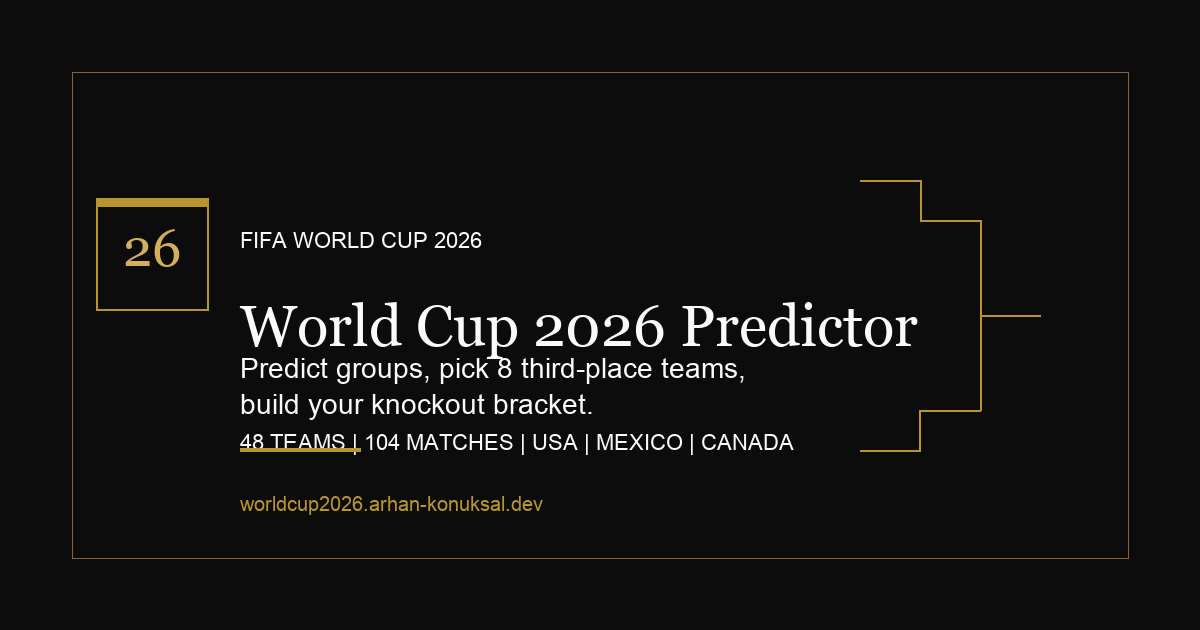
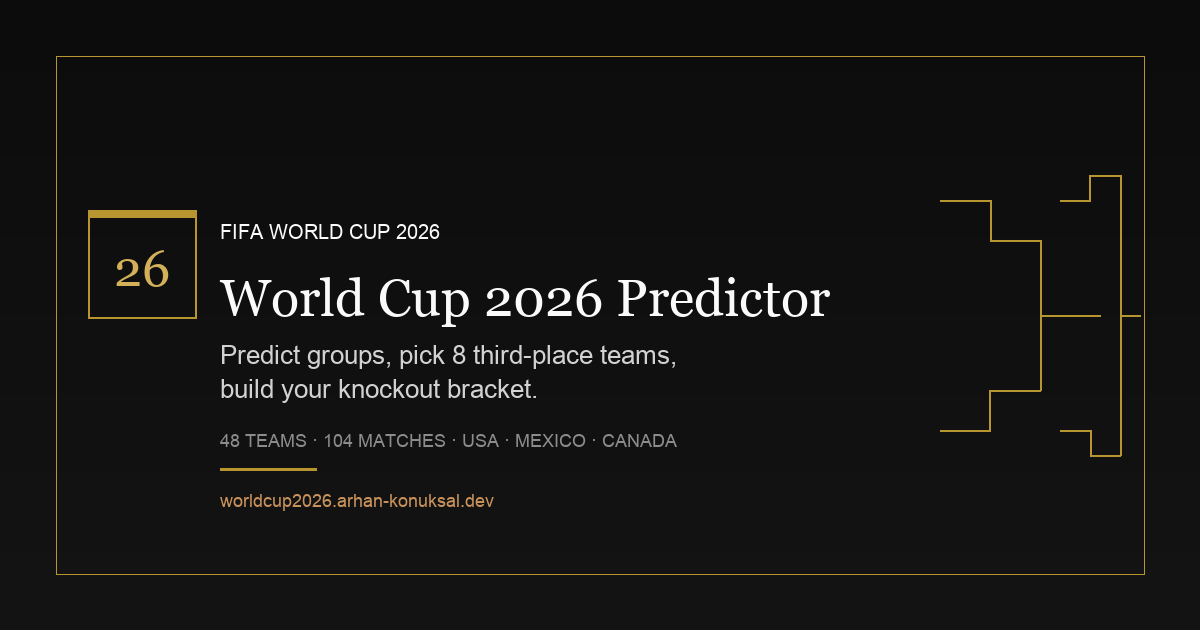
Bugs fixed

diff --git a/src/App.css b/src/App.css
@@ -589,6 +589,9 @@
 
 .champion-reveal {
   flex-shrink: 0;
+  width: 100%;
+  min-width: 0;
+  box-sizing: border-box;
   background: var(--black);
   color: var(--white);
   padding: 1.15rem 1.35rem 1.35rem;
@@ -612,6 +615,8 @@
   flex-direction: column;
   align-items: center;
   gap: 0.5rem;
+  width: 100%;
+  min-width: 0;
 }
 
 .champion-reveal-flag {
@@ -623,12 +628,15 @@
 .champion-reveal-name {
   margin: 0;
   font-family: var(--font-display);
-  font-size: clamp(1.1rem, 3.5vw, 1.45rem);
+  font-size: clamp(0.95rem, 3.2vw, 1.45rem);
   font-weight: 600;
-  line-height: 1.15;
+  line-height: 1.25;
   color: var(--white);
+  width: 100%;
   max-width: 100%;
+  overflow-wrap: anywhere;
   word-break: break-word;
+  hyphens: auto;
 }
 
 .champion-reveal--export {
@@ -636,8 +644,9 @@
   right: 1.5rem;
   bottom: 1.35rem;
   z-index: 2;
-  min-width: 11.5rem;
-  max-width: 15rem;
+  min-width: 0;
+  width: auto;
+  max-width: min(100%, 17.5rem);
   padding: 0.85rem 1rem 1rem;
   text-align: left;
   border-top-width: 2px;
@@ -647,7 +656,11 @@
 .export-outcomes-row .champion-reveal--export {
   position: static;
   margin-left: auto;
-  flex-shrink: 0;
+  flex: 1 1 12rem;
+  min-width: 0;
+  max-width: min(100%, 22rem);
+  width: auto;
+  align-self: stretch;
 }
 
 .champion-reveal--export .champion-reveal-label {
@@ -658,14 +671,57 @@
 .champion-reveal--export .champion-reveal-body {
   align-items: flex-start;
   gap: 0.35rem;
+  width: 100%;
 }
 
 .champion-reveal--export .champion-reveal-flag {
-  font-size: 2.85rem;
+  font-size: clamp(2rem, 4vw, 2.85rem);
 }
 
 .champion-reveal--export .champion-reveal-name {
-  font-size: 1.2rem;
+  font-size: 0.92rem;
+  line-height: 1.3;
+}
+
+.export-card .champion-reveal--export {
+  max-width: min(100%, 22rem);
+}
+
+.export-card .champion-reveal--export .champion-reveal-flag {
+  font-size: 2.2rem;
+  line-height: 1;
+}
+
+.export-card .champion-reveal--export .champion-reveal-name {
+  font-size: 0.86rem;
+  line-height: 1.35;
+  overflow-wrap: anywhere;
+  word-break: break-word;
+  hyphens: auto;
+}
+
+.export-capture-host .export-card-header {
+  align-items: flex-start;
+}
+
+.export-capture-host .export-title-name {
+  font-size: 1.35rem;
+}
+
+.export-capture-host .export-outcomes-row {
+  flex-direction: row;
+  align-items: stretch;
+}
+
+.export-capture-host .export-outcomes-row .champion-reveal--export {
+  margin-left: auto;
+  max-width: 22rem;
+  flex: 1 1 13rem;
+}
+
+.export-capture-host .export-third-place.bracket-third-standalone {
+  width: min(100%, 152px);
+  max-width: 152px;
 }
 
 .champion-reveal--pending {
@@ -680,10 +736,11 @@
 
 .champion-reveal--pending .champion-reveal-name {
   font-family: var(--font-body);
-  font-size: 0.78rem;
+  font-size: clamp(0.72rem, 3vw, 0.78rem);
   font-weight: 500;
   letter-spacing: 0.02em;
   color: rgba(250, 250, 250, 0.5);
+  line-height: 1.35;
 }
 
 .section-fallback {
@@ -1118,10 +1175,32 @@
 
 .export-title {
   margin: 0;
+  display: flex;
+  flex-direction: column;
+  gap: 0.2rem;
+  min-width: 0;
+  max-width: 100%;
+}
+
+.export-title-name {
+  display: block;
   font-family: var(--font-display);
-  font-size: clamp(1.15rem, 2.5vw, 1.55rem);
+  font-size: 1.45rem;
   font-weight: 500;
+  line-height: 1.15;
+  overflow-wrap: anywhere;
+  word-break: break-word;
+}
+
+.export-title-sub {
+  display: block;
+  font-family: var(--font-display);
+  font-size: 1.05rem;
+  font-weight: 400;
   line-height: 1.2;
+  color: rgba(255, 255, 255, 0.72);
+  overflow-wrap: anywhere;
+  word-break: break-word;
 }
 
 .export-title-sep {
@@ -1140,6 +1219,7 @@
   align-items: flex-end;
   justify-content: space-between;
   gap: 1.25rem;
+  flex-wrap: wrap;
   margin-top: 1.15rem;
   padding-top: 1rem;
   border-top: 1px solid var(--line);
@@ -1383,6 +1463,30 @@
 
   .champion-reveal:not(.champion-reveal--export) {
     position: static;
+  }
+
+  .champion-reveal-flag {
+    font-size: clamp(2.1rem, 11vw, 2.75rem);
+  }
+
+  .champion-reveal-name {
+    font-size: clamp(0.9rem, 4.2vw, 1.15rem);
+  }
+
+  .export-outcomes-row {
+    flex-direction: column;
+    align-items: stretch;
+  }
+
+  .export-outcomes-row .champion-reveal--export {
+    margin-left: 0;
+    max-width: 100%;
+    flex: 1 1 auto;
+  }
+
+  .export-third-place.bracket-third-standalone {
+    width: 100%;
+    max-width: 100%;
   }
 }
 

diff --git a/src/components/BracketExportCard.tsx b/src/components/BracketExportCard.tsx
@@ -39,9 +39,8 @@ export function BracketExportCard({
           <div className="export-card-heading">
             <p className="export-eyebrow">{eyebrow}</p>
             <h2 className="export-title">
-              {displayName}
-              <span className="export-title-sep"> — </span>
-              {titleLine}
+              <span className="export-title-name">{displayName}</span>
+              <span className="export-title-sub">{titleLine}</span>
             </h2>
           </div>
         </div>